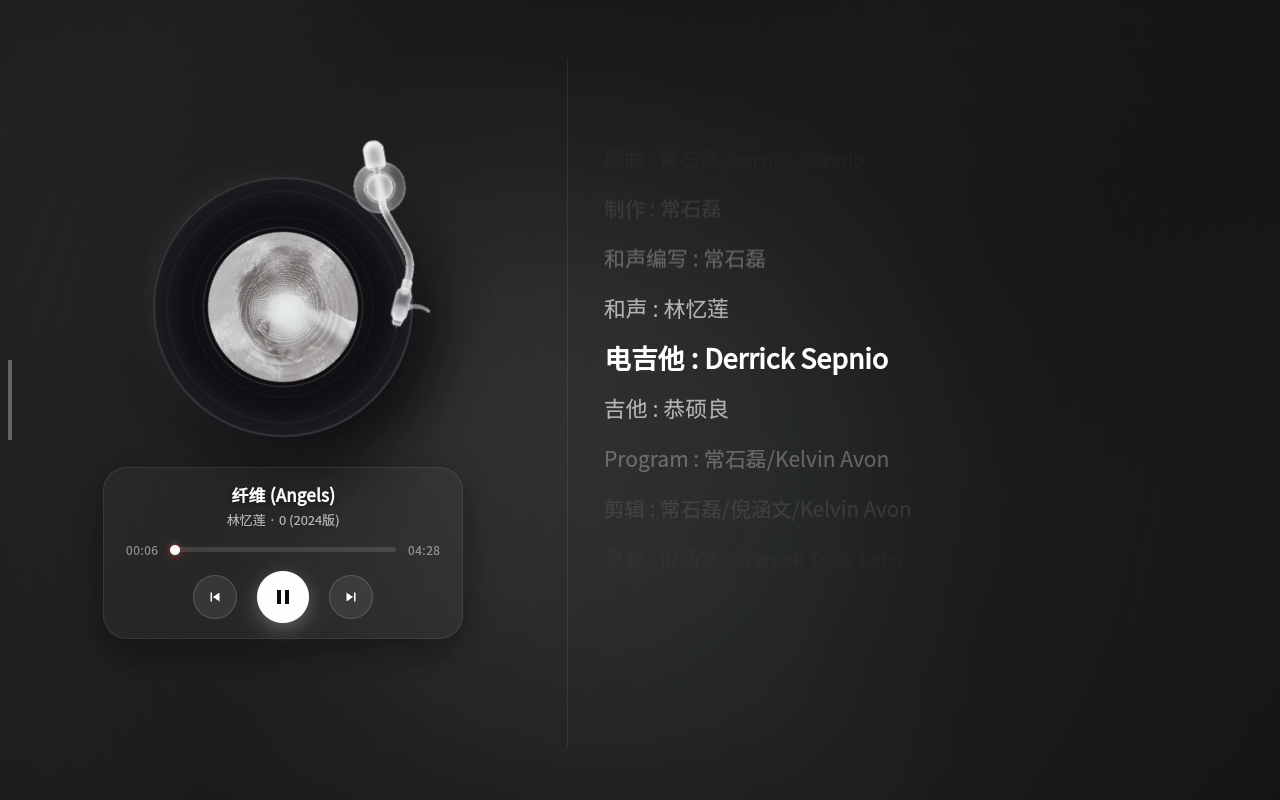
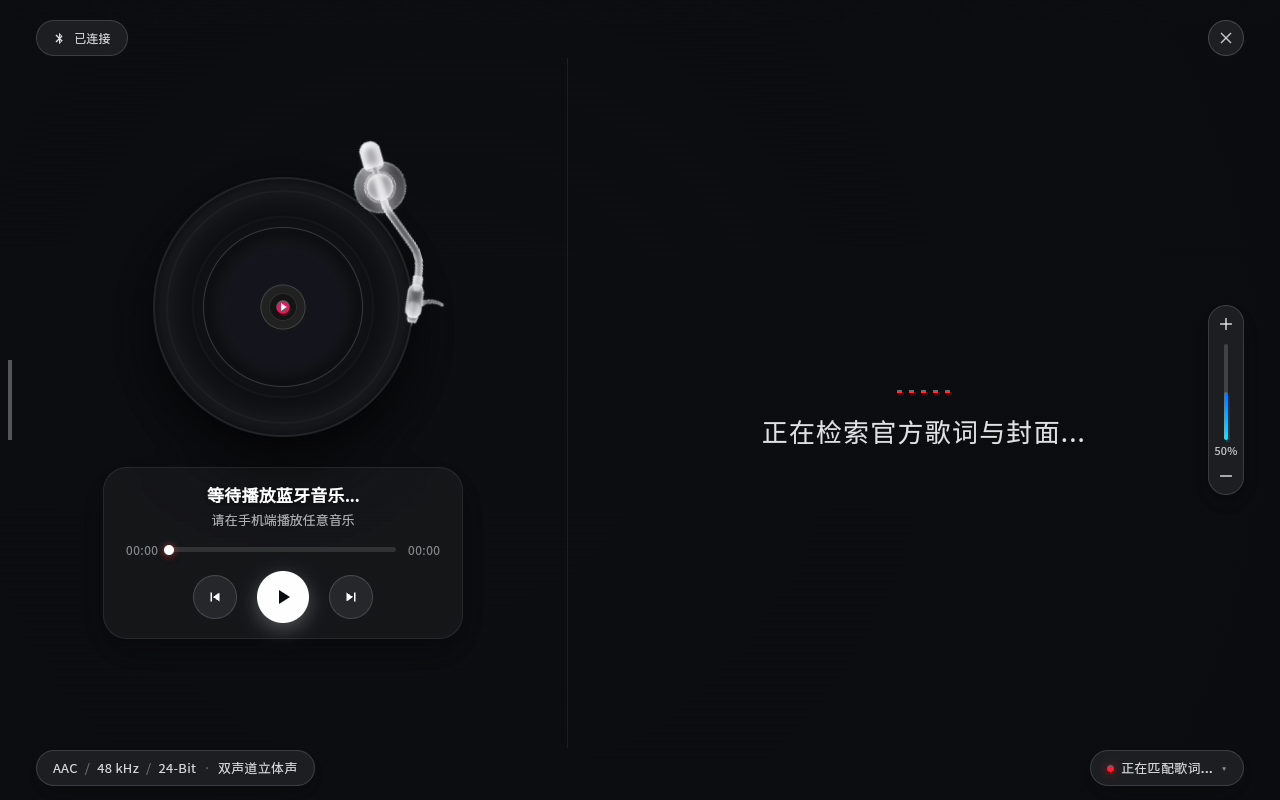
fix(ui): match secondary menu styles to corner controls and persist manual lyric source across songs

diff --git a/assets/index.html b/assets/index.html
@@ -193,20 +193,20 @@
             color: rgba(255, 255, 255, 0.85);
         }
 
-        /* 展开的详情浮层卡片：极简深空磨砂毛玻璃 */
+        /* 展开的详情浮层卡片：与四个角落及音量组件完全相同的磨砂毛玻璃风格 */
         .device-dropdown {
             position: absolute;
             top: calc(100% + 10px);
             left: 0;
             width: 270px;
-            background: rgba(22, 26, 33, 0.92);
+            background: rgba(255, 255, 255, 0.07);
             border: 1px solid rgba(255, 255, 255, 0.14);
             border-radius: 18px;
             padding: 14px 16px;
             box-sizing: border-box;
-            box-shadow: 0 16px 40px rgba(0, 0, 0, 0.65), 0 0 0 1px rgba(255, 255, 255, 0.05);
-            backdrop-filter: blur(24px);
-            -webkit-backdrop-filter: blur(24px);
+            box-shadow: 0 8px 28px rgba(0, 0, 0, 0.35);
+            backdrop-filter: blur(20px);
+            -webkit-backdrop-filter: blur(20px);
             opacity: 0;
             pointer-events: none;
             transform: translateY(-8px) scale(0.96);
@@ -225,7 +225,7 @@
             justify-content: space-between;
             align-items: center;
             padding-bottom: 10px;
-            border-bottom: 1px solid rgba(255, 255, 255, 0.08);
+            border-bottom: 1px solid rgba(255, 255, 255, 0.10);
             margin-bottom: 10px;
         }
 
@@ -906,18 +906,18 @@
             flex-shrink: 0;
         }
 
-        /* 歌词源二级选择弹层菜单：与设备二级菜单同一设计规范的高级深空磨砂毛玻璃 */
+        /* 歌词源二级选择弹层菜单：与四个角落及音量组件完全相同的磨砂毛玻璃风格 */
         .lyric-source-menu {
             position: fixed;
             right: 36px;
             bottom: 58px;
             width: 216px;
-            background: rgba(22, 26, 33, 0.92);
+            background: rgba(255, 255, 255, 0.07);
             border: 1px solid rgba(255, 255, 255, 0.14);
             border-radius: 18px;
-            box-shadow: 0 16px 40px rgba(0, 0, 0, 0.65), 0 0 0 1px rgba(255, 255, 255, 0.05);
-            backdrop-filter: blur(24px);
-            -webkit-backdrop-filter: blur(24px);
+            box-shadow: 0 8px 28px rgba(0, 0, 0, 0.35);
+            backdrop-filter: blur(20px);
+            -webkit-backdrop-filter: blur(20px);
             z-index: 200;
             padding: 10px;
             box-sizing: border-box;
@@ -937,10 +937,10 @@
         .source-menu-header {
             font-size: 11.5px;
             font-weight: 600;
-            color: rgba(255, 255, 255, 0.45);
+            color: rgba(255, 255, 255, 0.55);
             padding: 2px 6px 9px 6px;
             letter-spacing: 0.8px;
-            border-bottom: 1px solid rgba(255, 255, 255, 0.08);
+            border-bottom: 1px solid rgba(255, 255, 255, 0.10);
             margin-bottom: 6px;
             display: flex;
             justify-content: space-between;
@@ -970,11 +970,11 @@
         }
 
         .source-menu-item:hover, .source-menu-item:active {
-            background: rgba(255, 255, 255, 0.09);
+            background: rgba(255, 255, 255, 0.10);
         }
 
         .source-menu-item.active {
-            background: rgba(255, 255, 255, 0.13);
+            background: rgba(255, 255, 255, 0.16);
         }
 
         .menu-item-dot {
@@ -992,15 +992,15 @@
         .menu-item-name {
             font-size: 13px;
             font-weight: 500;
-            color: #ffffff;
+            color: rgba(255, 255, 255, 0.90);
             flex: 1;
             letter-spacing: 0.2px;
         }
 
         .menu-item-check {
-            font-size: 13px;
-            font-weight: 700;
-            color: #31c27c;
+            display: inline-flex;
+            align-items: center;
+            justify-content: center;
             opacity: 0;
             transition: opacity 0.15s ease, transform 0.15s ease;
             transform: scale(0.8);
@@ -1444,8 +1444,7 @@
         let activeLyricIndex = -1;
         let currentCoverUrl = "";
         let lyricMode = 'official'; // 'official' | 'bluetooth'
-        let userExplicitMode = null; // 用户手动切换锁定模式
-
+        
         // 歌曲元数据与歌词内存缓存表（避免返回桌面重新点击时重复请求与闪白）
         const songCache = {};
 
@@ -1720,7 +1719,9 @@
             auto: { name: '自动推荐', color: '#f59e0b', label: '自动匹配' }
         };
 
-        let currentActiveSource = 'auto';
+        // 记忆歌词源偏好：切歌时严格保持用户手动选择的来源，不自动回退
+        let currentActiveSource = localStorage.getItem('preferred_lyric_source') || 'auto';
+        let userExplicitMode = (currentActiveSource !== 'auto') ? currentActiveSource : null;
 
         function getSourceMeta(src) {
             if (!src) return SOURCE_META.auto;
@@ -1730,7 +1731,7 @@
             if (s.includes('酷狗') || s.includes('kugou')) return SOURCE_META.kugou;
             if (s.includes('lrclib')) return SOURCE_META.lrclib;
             if (s.includes('蓝牙') || s.includes('bluetooth') || s.includes('stream')) return SOURCE_META.bluetooth;
-            return { name: src, color: '#31c27c', label: src };
+            return { name: src, color: '#31c27c', label: src, id: 'auto' };
         }
 
         function toggleLyricMenu(e) {
@@ -1778,12 +1779,7 @@
             }
         });
 
-        function selectLyricSource(sourceId, e) {
-            if (e && e.stopPropagation) e.stopPropagation();
-            currentActiveSource = sourceId;
-            closeLyricMenu();
-            updateMenuCheckmarks();
-
+        function applyLyricSourceForCurrentTrack(sourceId, isUserTriggered) {
             const trackKey = (currentTrack.title + " - " + currentTrack.artist).toLowerCase().trim();
             if (!songCache[trackKey]) songCache[trackKey] = {};
             const cached = songCache[trackKey];
@@ -1794,7 +1790,7 @@
                 const streamText = currentTrack.streamLyric || (cached && cached.streamLyric) || "当前蓝牙源暂未投送歌词";
                 showStreamLyric(streamText);
                 updateStatusTag(SOURCE_META.bluetooth.label, SOURCE_META.bluetooth.color);
-                showToastTip('已切换至蓝牙实时歌词');
+                if (isUserTriggered) showToastTip('已切换至蓝牙实时歌词');
                 return;
             }
 
@@ -1815,7 +1811,7 @@
                     renderLyrics([]);
                     updateStatusTag('纯音乐 / 暂无歌词', '#888888');
                 }
-                showToastTip('已切换为自动最佳匹配');
+                if (isUserTriggered) showToastTip('已切换为自动推荐');
                 return;
             }
 
@@ -1830,13 +1826,13 @@
                 hasOfficialLyrics = true;
                 renderLyrics(parsedOfficialLyrics);
                 updateStatusTag(meta.label, meta.color);
-                showToastTip('已呈现' + meta.name + '歌词');
+                if (isUserTriggered) showToastTip('已呈现' + meta.name + '歌词');
                 return;
             }
 
             // 2. 否则向原生层发起精准网络检索
             updateStatusTag('检索' + meta.label + '中...', meta.color);
-            showToastTip('正在从' + meta.name + '检索歌词...');
+            if (isUserTriggered) showToastTip('正在从' + meta.name + '检索歌词...');
 
             if (window.AndroidApp && window.AndroidApp.requestLyricSource) {
                 window.AndroidApp.requestLyricSource(
@@ -1846,6 +1842,19 @@
                     currentTrack.album || ""
                 );
             }
+        }
+
+        function selectLyricSource(sourceId, e) {
+            if (e && e.stopPropagation) e.stopPropagation();
+            currentActiveSource = sourceId;
+            userExplicitMode = (sourceId !== 'auto') ? sourceId : null;
+            try {
+                localStorage.setItem('preferred_lyric_source', sourceId);
+            } catch (err) {}
+            closeLyricMenu();
+            updateMenuCheckmarks();
+
+            applyLyricSourceForCurrentTrack(sourceId, true);
         }
 
         // 接收来自 Android 原生层针对特定源的检索结果
@@ -1906,23 +1915,25 @@
                 const parsed = parseLRC(data.lyrics);
                 if (parsed.length > 0) {
                     songCache[trackKey].parsedLyrics = parsed;
-                    parsedOfficialLyrics = parsed;
-                    hasOfficialLyrics = true;
-                    if (userExplicitMode !== 'bluetooth') {
+                    // 仅当用户处于“自动推荐”模式时，才应用全局自动匹配歌词；
+                    // 若用户手动锁定了特定源（如 QQ音乐、网易云等），切歌时绝不被覆盖！
+                    if (currentActiveSource === 'auto') {
+                        parsedOfficialLyrics = parsed;
+                        hasOfficialLyrics = true;
                         lyricMode = 'official';
                         renderLyrics(parsed);
                         const meta = getSourceMeta(data.lyricSource || songCache[trackKey].lyricSource);
-                        currentActiveSource = meta.id;
-                        updateMenuCheckmarks();
                         updateStatusTag(meta.label, meta.color);
+                        return;
                     }
-                    return;
                 }
             }
 
-            if (lyricMode === 'bluetooth' && currentTrack.streamLyric) {
-                showStreamLyric(currentTrack.streamLyric);
-            } else if (!hasOfficialLyrics) {
+            if (currentActiveSource === 'bluetooth') {
+                if (currentTrack.streamLyric) {
+                    showStreamLyric(currentTrack.streamLyric);
+                }
+            } else if (currentActiveSource === 'auto' && !hasOfficialLyrics) {
                 renderLyrics([]);
                 updateStatusTag(currentTrack.streamLyric ? '蓝牙歌词' : '纯音乐 / 暂无歌词', '#888888');
             }
@@ -1962,15 +1973,22 @@
                 hasOfficialLyrics = false;
                 parsedOfficialLyrics = [];
                 activeLyricIndex = -1;
-                userExplicitMode = null;
 
-                // 优先从内存缓存中秒开封面和歌词
+                // 核心：严格保持用户手动选定的歌词源偏好，切歌时不回退为默认
+                updateMenuCheckmarks();
+
                 const cached = songCache[trackKey];
-                if (cached && (cached.coverUrl || cached.parsedLyrics)) {
-                    if (cached.coverUrl) {
-                        setCoverImage(cached.coverUrl);
-                    }
-                    if (cached.parsedLyrics && cached.parsedLyrics.length > 0) {
+                if (cached && cached.coverUrl) {
+                    setCoverImage(cached.coverUrl);
+                }
+
+                if (currentActiveSource !== 'auto') {
+                    // 用户锁定了特定来源（如 QQ音乐 / 网易云音乐 / 酷狗 / 蓝牙实时歌词）
+                    applyLyricSourceForCurrentTrack(currentActiveSource, false);
+                } else {
+                    // 默认自动推荐模式
+                    userExplicitMode = null;
+                    if (cached && cached.parsedLyrics && cached.parsedLyrics.length > 0) {
                         parsedOfficialLyrics = cached.parsedLyrics;
                         hasOfficialLyrics = true;
                         lyricMode = 'official';
@@ -1978,9 +1996,9 @@
                         renderLyrics(parsedOfficialLyrics);
                         const label = getLyricSourceLabel(cached.lyricSource);
                         updateStatusTag(label, '#1db954');
+                    } else {
+                        updateStatusTag('正在匹配歌词与封面...', '#f5a623');
                     }
-                } else {
-                    updateStatusTag('正在匹配歌词与封面...', '#f5a623');
                 }
             }
 
